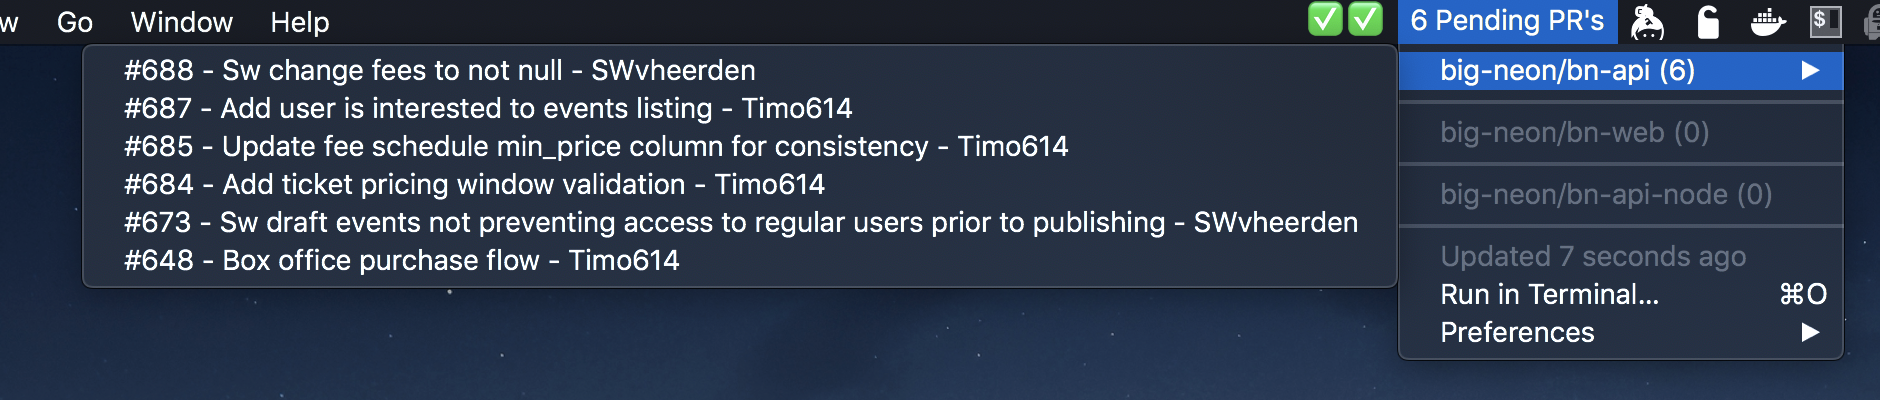
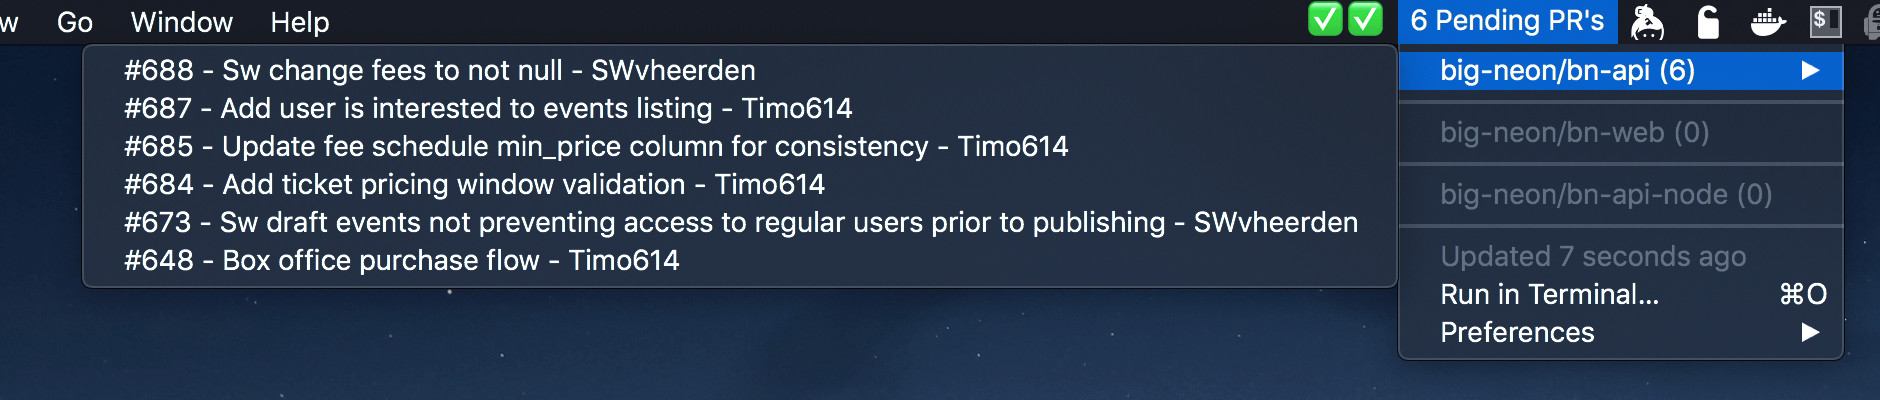
Added screenshot to README
Tinypng screenshot

Changed region(s): [[0.6787, 0.0, 0.9872, 0.24]]

diff --git a/README.md b/README.md
@@ -7,3 +7,5 @@ Note that GitHub will rate limit you to 60 requests an hour.
  * Make sure node is in your path
  * USER_AGENT should be your GitHub username 
 
+
+![Screenshot](https://raw.githubusercontent.com/Krakaw/bitbar-github-prs/master/screenshot.png)
